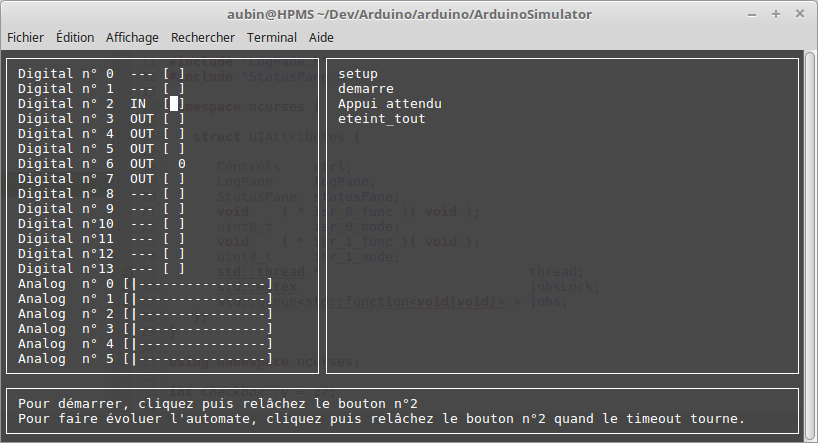
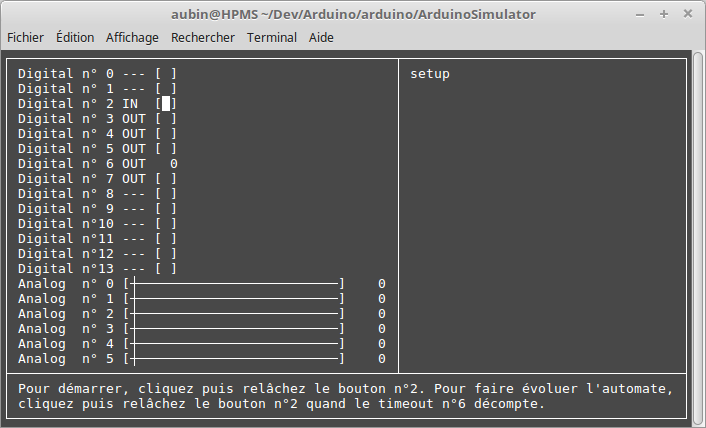
Mise à jour des images ncurses

Changed region(s): [[0.0, 0.0, 0.9972, 1.0], [0.9037, 0.0304, 0.9972, 0.0607]]

diff --git a/ArduinoSimulator/src/ncurses/UI_Impl.h b/ArduinoSimulator/src/ncurses/UI_Impl.h
@@ -117,9 +117,9 @@ namespace ncurses {
             if( key == KEY_RESIZE ) {
                ::clear();
                ::refresh();
-               if( COLS < 120 && COLS > 90 ) {
+               if( COLS < 120 && COLS > 86 ) {
                   _logPane   ->setWidth( COLS - _ctrl->getWidth());
-                  _statusPane->setWidth( COLS );
+                  _statusPane->setWidth( COLS - 1 );
                }
                _ctrl      ->render( true );
                _logPane   ->render( true );
